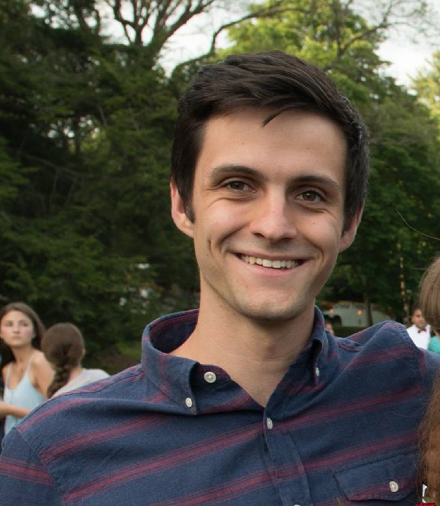
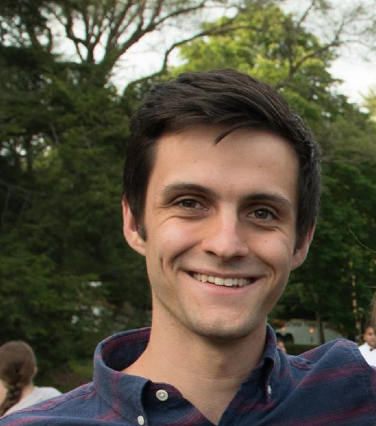
style sheet added for homepage

diff --git a/index.html b/index.html
@@ -2,15 +2,18 @@
 
 <head>
 	<title>Ashton Knight</title>
+
+	<link rel="stylesheet" type="text/css" href="homepage.css"/>
+	<style type="text/css"> </style>
 </head>
 
 <body>
 	<h2> Ashton Knight </h2>
-	<img src="/images/headshot.png" alt="headshot" style="width:440px;height:506px;"/>
+	<img src="/images/headshot.png" alt="headshot" style="width:376px;height:426px;"/>
 
 	<br>
 	<p>
-		<a href="bio.html"> Bio </a> 
+		<a href="bio.html"> Bio </a>
 		<a href="resume.html"> Resumé </a>
 	</p>
 

diff --git a/homepage.css b/homepage.css
@@ -1,0 +1,3 @@
+body {
+    background-image: url("/images/p5.png");
+}
